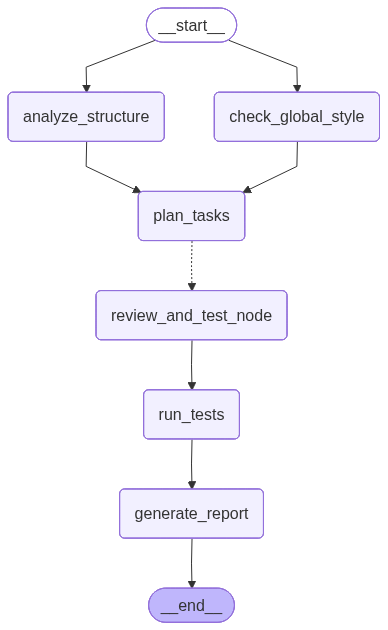
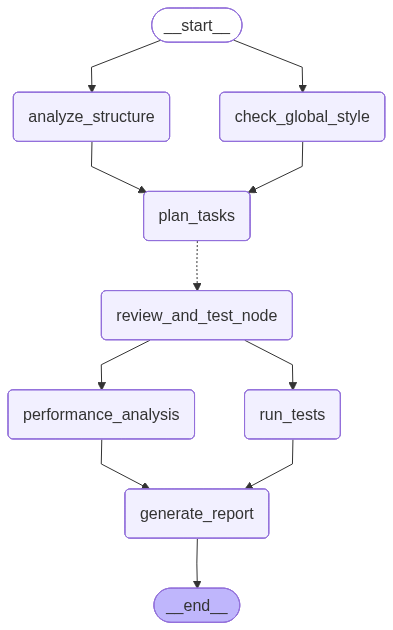
update readme

diff --git a/visualize_performance_graph.py b/visualize_performance_graph.py
@@ -1,0 +1,35 @@
+import sys
+import os
+
+# Ensure src is in python path
+sys.path.insert(0, os.path.join(os.path.dirname(__file__), "src"))
+
+from src.performance.perf_workflow import create_performance_subgraph
+
+
+def generate_graph_visualization() -> None:
+    print("Generating performance subgraph visualization...")
+    app = create_performance_subgraph()
+
+    try:
+        graph = app.get_graph()
+        png_data = graph.draw_mermaid_png()
+
+        output_file = "performance_workflow_graph.png"
+        with open(output_file, "wb") as f:
+            f.write(png_data)
+
+        print(f"Graph visualization saved to {output_file}")
+
+    except Exception as e:
+        print(f"Error generating PNG: {e}")
+        print("Attempting to print Mermaid syntax instead...")
+        try:
+            print("\nMermaid Syntax:")
+            print(app.get_graph().draw_mermaid())
+        except Exception as e2:
+            print(f"Could not generate mermaid syntax: {e2}")
+
+
+if __name__ == "__main__":
+    generate_graph_visualization()

diff --git a/src/utils/report_server.py b/src/utils/report_server.py
@@ -241,15 +241,15 @@ CARD_TEMPLATE = """
 
 REPORT_INFO = {
     "project_structure.md": {
-        "title": "项目结构与算法",
+        "title": "项目结构说明",
         "icon": "🏗",
-        "description": "项目目录结构、核心数据结构和算法实现详解",
-        "badges": '<span class="badge badge-blue">结构</span><span class="badge badge-green">算法</span>'
+        "description": "项目目录结构、核心模块与关键实现概览",
+        "badges": '<span class="badge badge-blue">结构</span>'
     },
     "performance_analysis.md": {
         "title": "性能分析报告",
         "icon": "⚡",
-        "description": "性能热点分析、复杂度评估和优化建议",
+        "description": "热点分析、内存风险点与优化建议（可结合动态剖析指标）",
         "badges": '<span class="badge badge-yellow">性能</span><span class="badge badge-green">优化</span>'
     },
     "style_report.md": {

diff --git a/README.md b/README.md
@@ -11,40 +11,8 @@
 
 ## 架构
 
-```
-START
-  │
-  ▼
-┌─────────────────────┐
-│  analyze_structure  │  ← 项目结构分析 Agent (使用 list_dir, read_file 工具)
-└─────────────────────┘
-  │
-  ▼
-┌─────────────────────┐
-│     plan_tasks      │  ← 任务分工 Agent (输出 JSON 任务列表)
-└─────────────────────┘
-  │
-  │ ┌──── Send ────┐ ┌──── Send ────┐
-  ▼ ▼              ▼ ▼              
-┌─────────┐      ┌─────────┐
-│ Worker  │      │ Worker  │  ← 并行 Worker (代码审查 + 测试生成)
-│ Task A  │      │ Task B  │
-└─────────┘      └─────────┘
-  │              │
-  └──────┬───────┘
-         ▼
-┌─────────────────────┐
-│     run_tests       │  ← 测试执行 Agent (pytest/go test/gcc)
-└─────────────────────┘
-         │
-         ▼
-┌─────────────────────┐
-│  generate_report    │  ← 最终报告生成
-└─────────────────────┘
-         │
-         ▼
-        END
-```
+![alt text](complex_workflow_graph.png)
+![alt text](performance_workflow_graph.png)
 
 ## 目录结构
 
@@ -65,6 +33,14 @@ complex_code_review/
     │   └── report_agent.py      # 报告生成
     ├── graph/
     │   └── workflow.py    # LangGraph 工作流定义
+    ├── performance/       # 性能分析子图（热点/内存/动态剖析/优化建议）
+    │   ├── perf_workflow.py      # 性能子图定义（extract_code -> analyze_memory/profile -> detect_hotspots -> generate_optimizations）
+    │   ├── perf_state.py         # 性能子图状态
+    │   ├── code_extractor.py     # 代码结构提取
+    │   ├── memory_analyzer.py    # 内存风险点分析
+    │   ├── profiler_agent.py     # 动态剖析（time/perf 等，终端实时输出 + 指标解析）
+    │   ├── hotspot_detector.py   # 热点定位
+    │   ├── optimization_advisor.py # 优化建议 + 性能报告生成
     ├── state/
     │   └── state.py       # 状态定义 (TypedDict)
     └── tools/
@@ -89,15 +65,35 @@ ollama pull qwen2.5-coder:7b
 
 ### 3. 运行审查
 
+**基本用法**：
+
 ```bash
 python main.py /path/to/your/project
 ```
 
+**完整运行示例**：
+
+包含性能分析 (`--perf`)、动态剖析 (`--profile`)、自定义测试脚本 (`-t`) 以及报告服务 (`--serve`) 的完整命令：
+
+```bash
+python main.py /home/elendilen/workspace/project \\
+  --perf \\
+  --profile \\
+  --exec ./build/project_hw \\
+  --exec-cwd /home/elendilen/workspace/project \\
+  --exec-args "-i dataset/input_random.txt -o dataset/output_random.txt -v dataset/val_random.txt" \\
+  -t "cd /home/elendilen/workspace/project/scripts && bash run.sh" \\
+  --serve
+```
+
+*(注意：示例命令中已修正路径拼写 `worspace` -> `workspace`)*
+
 ### 4. 查看报告
 
-报告将生成在 `reports/` 目录下：
-- `project_structure.md` - 项目结构与功能文档
-- `final_analysis.md` - 综合分析报告
+报告将生成在 `reports/` 目录下（仅保存核心文档）：
+- `project_structure.md` - 项目结构与架构说明
+- `performance_analysis.md` - 深度性能分析报告（仅在启用 --perf 时生成）
+- `style_report.md` - 代码风格检查报告
 
 ## 配置
 
@@ -107,6 +103,7 @@ python main.py /path/to/your/project
 
 ```bash
 python visualize_complex_graph.py
+python visualize_performance_graph.py
 ```
 
-将生成 `complex_workflow_graph.png`。
+将生成 `complex_workflow_graph.png` 和 `performance_workflow_graph.png`。
